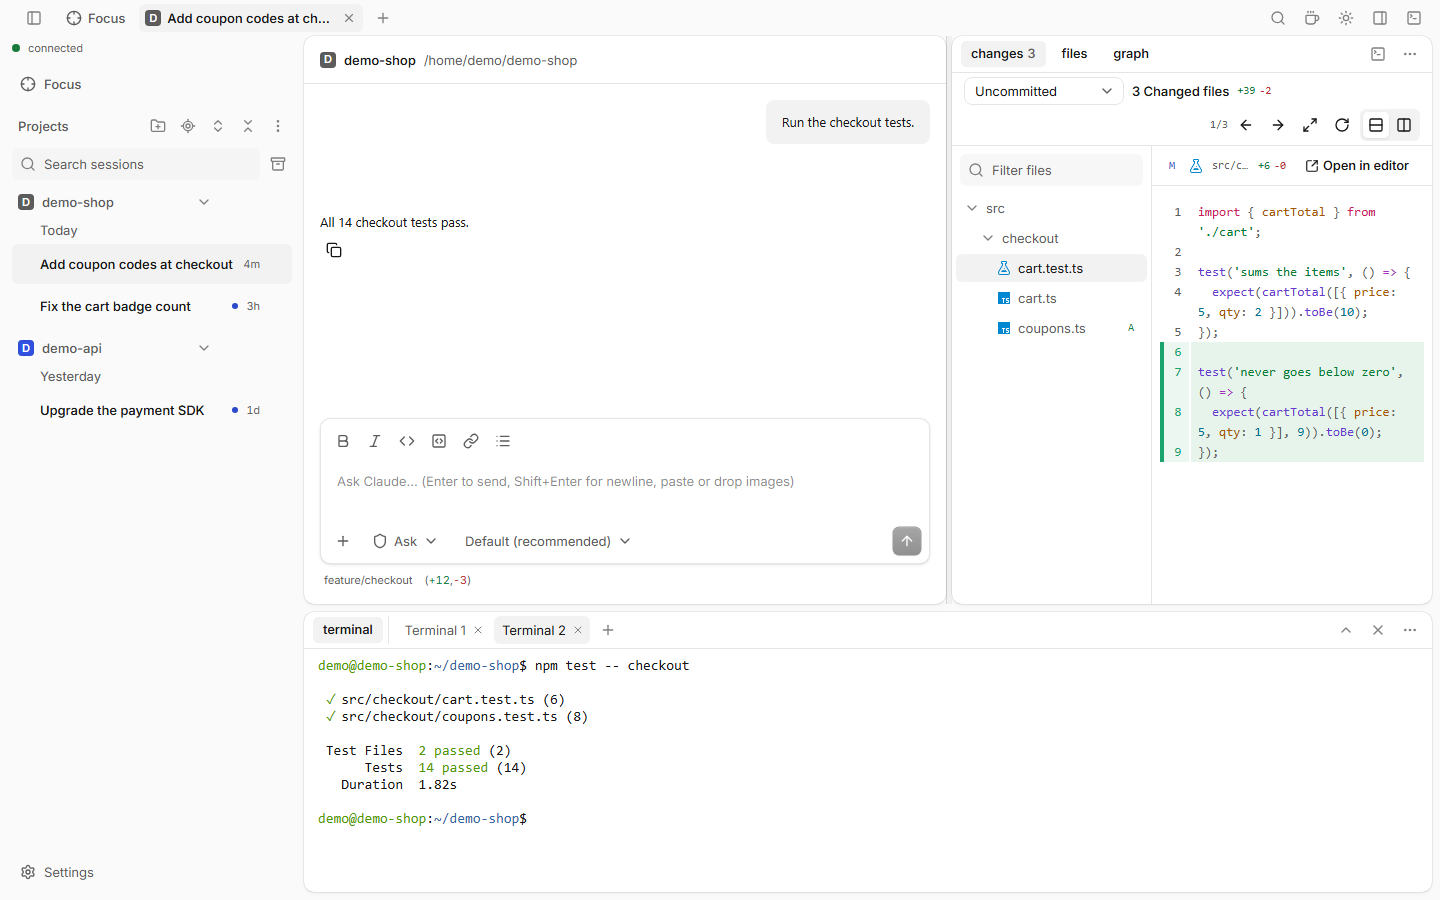
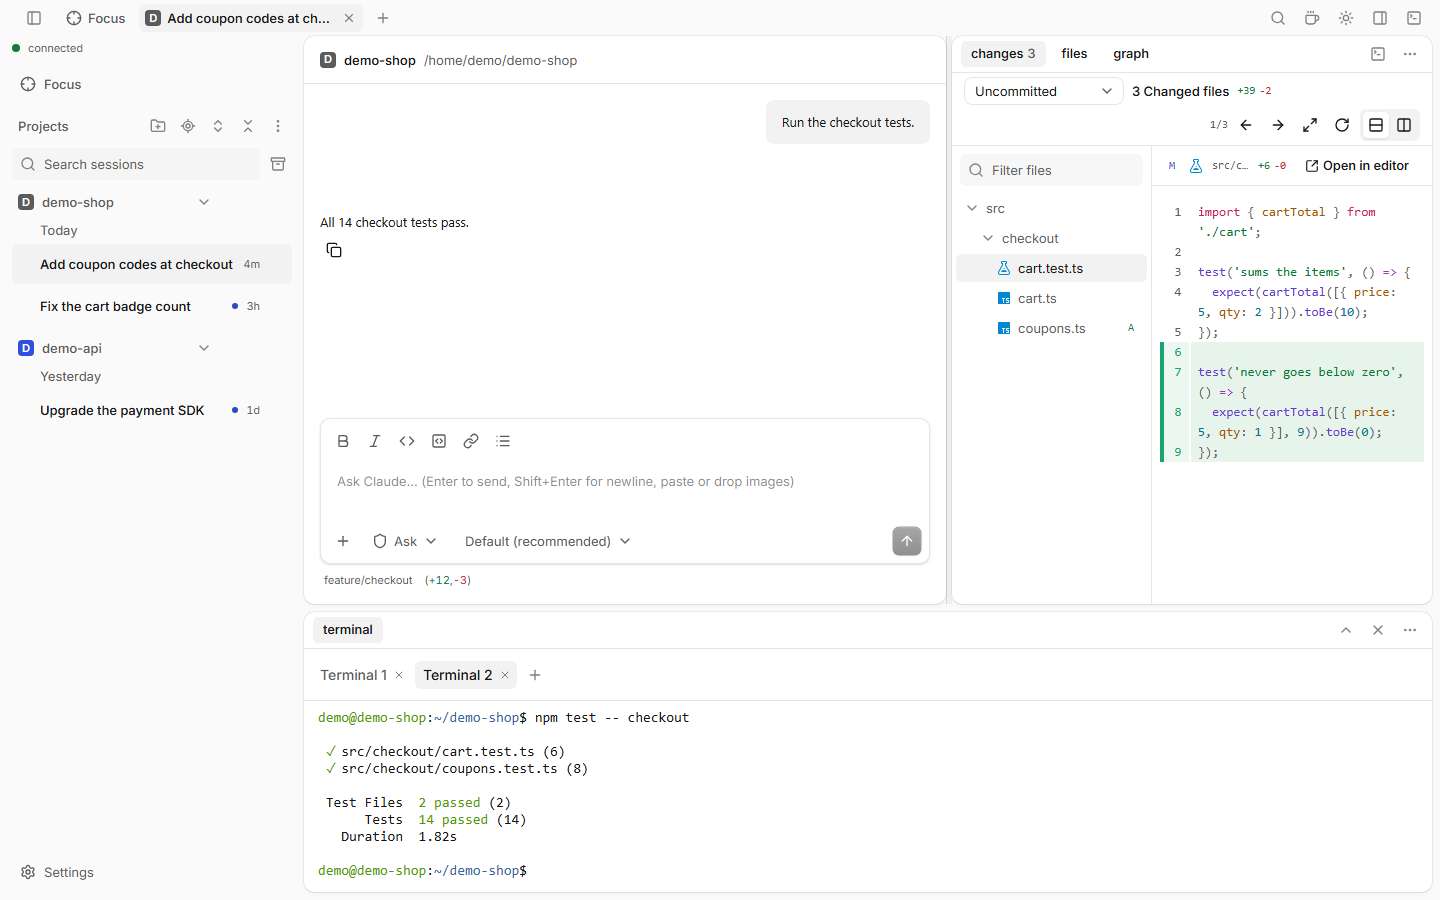
docs: 0.8.0 docs check: terminal tabs under the dock header again, no login check for sides, retaken terminal and new session shots

diff --git a/docs/site/reference/troubleshooting.md b/docs/site/reference/troubleshooting.md
@@ -30,9 +30,9 @@ Start on another port: `claude-ui --port 4281`.
 
 In 0.5.0 every WSL and Docker side stops about 15 seconds after it starts. This is a known bug: [#263](https://github.com/cuonghuunguyen/claude-code-ui/issues/263). **Retry** starts it again, but it stops again. Windows and local projects are not affected.
 
-### The side needs Node.js or a login
+### The side needs Node.js or build tools
 
-The Open project dialog says what is missing. A WSL distro or Docker container with glibc (Debian, Ubuntu, ...) needs only `sh`, `tar`, `gzip` and a Claude login: claude-code-ui brings Node.js. A WSL distro that installs with npm (musl, see below) needs Node.js 22+, make, python3 and g++. Open **What this container needs** in the dialog for the list with a ✓ or ✗ per item. See [WSL & Docker](../features/wsl-docker).
+The Open project dialog says what is missing. A WSL distro or Docker container with glibc (Debian, Ubuntu, ...) needs only `sh`, `tar` and `gzip` (a WSL distro also `bash`): claude-code-ui brings Node.js. A WSL distro that installs with npm (musl, see below) needs Node.js 22+, make, python3 and g++. Open **What this container needs** in the dialog for the list with a ✓ or ✗ per item. The dialog does not check the Claude login: a session started without one says so. See [WSL & Docker](../features/wsl-docker).
 
 ### A Docker container or WSL distro installs with npm, not the bundle
 

diff --git a/docs/site/features/wsl-docker.md b/docs/site/features/wsl-docker.md
@@ -34,7 +34,7 @@ A WSL distro on the bundle path needs `bash`, `tar` and `gzip` (not only `sh`), 
 | A writable `/tmp`, `/dev/shm` or home folder | | | Yes | Yes |
 | `git` (Git panel) | Optional | Optional | Optional | Optional |
 
-In Open project, **What this container needs** lists these items for the container you picked, with a ✓ or ✗ for each after the check. If something is missing, the dialog tells you what to run. When the container installs with npm, the dialog says why.
+In Open project, **What this container needs** lists these items for the container you picked, with a ✓ or ✗ for each after the check. If something is missing, the dialog tells you what to run. When the container installs with npm, the dialog says why. The Claude login is not checked: log in as the table says, and a session started without a login says so.
 
 The bundle needs your computer to reach nodejs.org and the npm registry once per claude-code-ui version (`CLAUDE_UI_UPDATE_REGISTRY` sets a registry mirror). Without them and without a cached copy, the container installs with npm instead.
 

diff --git a/docs/site/features/terminal.md b/docs/site/features/terminal.md
@@ -8,7 +8,7 @@ A real terminal in the session's folder, docked at the bottom of the window by d
 
 1. Press <kbd>Ctrl</kbd>+<kbd>`</kbd> to show or hide the terminal (or the terminal button in the side panel).
 2. Type commands like in any terminal.
-3. Click **+** (**New terminal**, <kbd>Ctrl</kbd>+<kbd>Shift</kbd>+<kbd>`</kbd>) for another one. Each gets a tab in the panel's header: Terminal 1, Terminal 2…
+3. Click **+** (**New terminal**, <kbd>Ctrl</kbd>+<kbd>Shift</kbd>+<kbd>`</kbd>) for another one. Each gets a tab in the row above the terminal: Terminal 1, Terminal 2…
 
 ## Which shell
 
